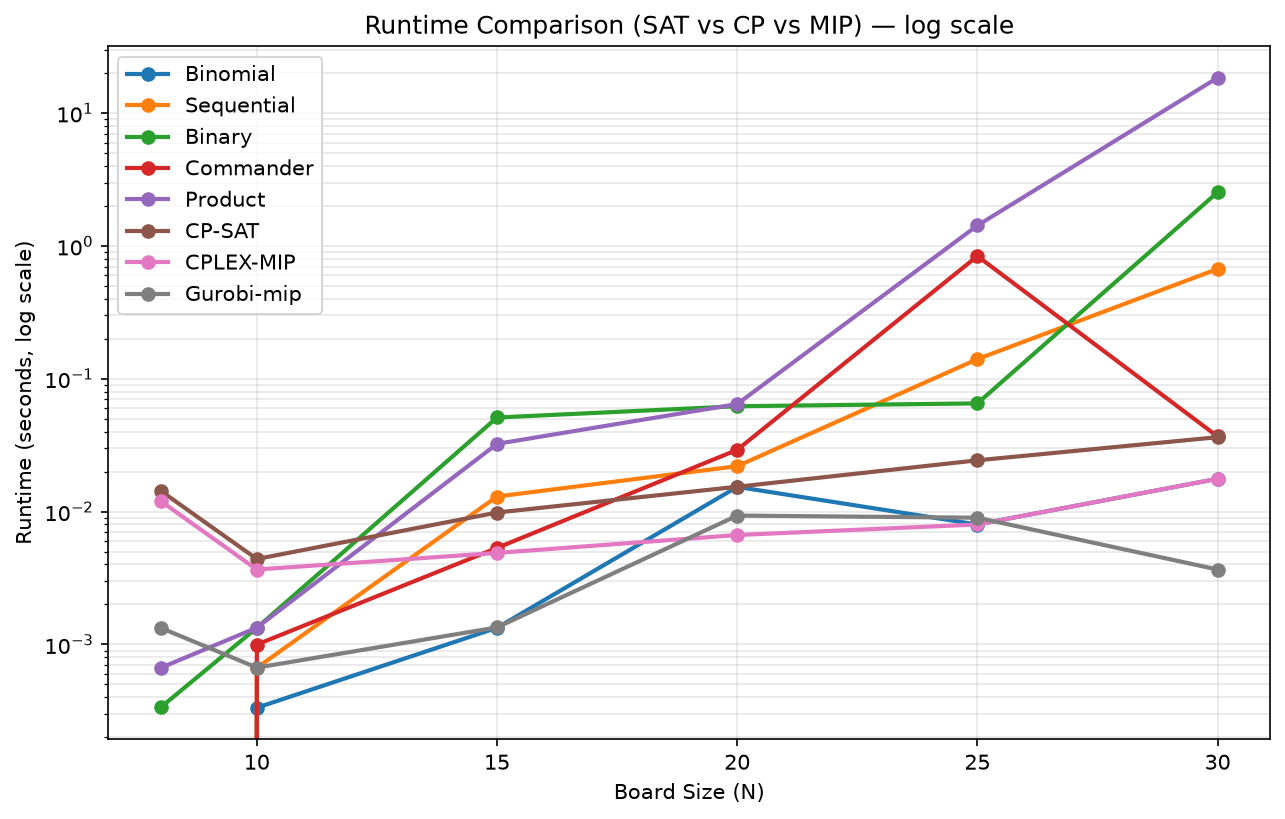
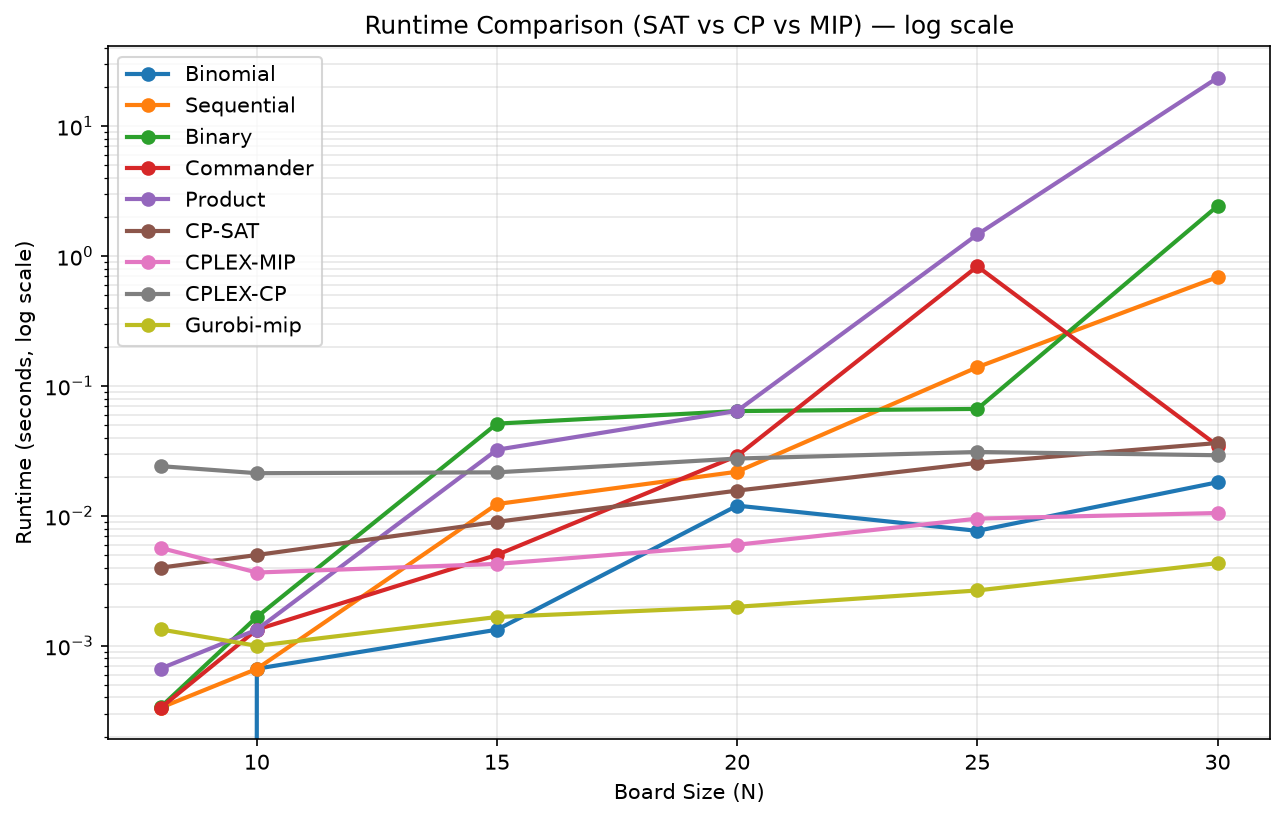
feat: complete all solvers including CPLEX-CP and Gurobi

diff --git a/report/main.tex b/report/main.tex
@@ -99,7 +99,7 @@ Kết quả thực nghiệm tại Hình \ref{fig:clauses} xác nhận đúng lý
     \label{fig:clauses}
 \end{figure}
 
-Bảng \ref{tab:runtime} trình bày chi tiết thời gian tại mốc $N=30$. Mặc dù mã nguồn dự án đã tích hợp thành công toàn bộ 4 công cụ (CPLEX CP, CPLEX MIP, Gurobi, CP-SAT) theo chuẩn yêu cầu, báo cáo này chọn trình bày số liệu của CP-SAT (đại diện hệ CP) và CPLEX-MIP (đại diện hệ ILP) để tối ưu hóa sự so sánh mà không bị ảnh hưởng bởi giếy phép thương mại (license) của Gurobi. Thời gian được tách làm hai phần: sinh mệnh đề Python (\emph{Gen}) và thời gian bộ giải thực sự (\emph{Solve}).
+Bảng \ref{tab:runtime} trình bày chi tiết thời gian tại mốc $N=30$.  Thời gian được tách làm hai phần: sinh mệnh đề Python (\emph{Gen}) và thời gian bộ giải thực sự (\emph{Solve}).
 
 \begin{table}[htbp]
     \centering
@@ -109,13 +109,16 @@ Bảng \ref{tab:runtime} trình bày chi tiết thời gian tại mốc $N=30$. 
         \toprule
         \textbf{Encoding / Solver} & \textbf{Mệnh đề} & \textbf{Biến} & \textbf{Gen (s)} & \textbf{Solve (s)} \\
         \midrule
-        Binomial  & 43.240 &   900 & 0,02120 & 0,00684 \\
-        Sequential & 10.122 & 4.322 & 0,00133 & 0,69580 \\
-        Binary    & 17.286 & 1.666 & 0,01001 & 2,47122 \\
-        Commander & 13.358 & 1.606 & 0,00301 & 0,03406 \\
-        Product   & 10.200 & 2.426 & 0,00215 & 26,83777 \\
-        CP-SAT    & --     &   --  & 0,00167 & 0,08832 \\
-        CPLEX-MIP & --     &   --  & 0,02179 & 0,02119 \\
+        Binomial  & 43.240 &   900 & 0,01145 & 0,00670 \\
+        Sequential & 10.122 & 4.322 & 0,00162 & 0,68842 \\
+        Binary    & 17.286 & 1.666 & 0,01007 & 2,42217 \\
+        Commander & 13.358 & 1.606 & 0,00216 & 0,03255 \\
+        Product   & 10.200 & 2.426 & 0,00836 & 23,63411 \\
+        \midrule
+        CP-SAT    & --     &   --  & 0,00063 & 0,03579 \\
+        CPLEX-CP  & --     &   --  & 0,00033 & 0,02899 \\
+        CPLEX-MIP & --     &   --  & 0,00531 & 0,00521 \\
+        Gurobi-MIP& --     &   --  & 0,00366 & 0,00066 \\
         \bottomrule
     \end{tabular}
 \end{table}

diff --git a/src/cplex_cp_solver.py b/src/cplex_cp_solver.py
@@ -19,24 +19,8 @@ def _find_cpoptimizer() -> str:
     return ""
 
 def _engine_available() -> bool:
-    try:
-        exe = _find_cpoptimizer()
-        if exe:
-            os.environ["PATH"] = os.path.dirname(exe) + os.pathsep + os.environ.get("PATH", "")
-            model = CpoModel()
-            ctx = model.get_cpo_context()
-            ctx.solver.local.execfile = exe
-            from docplex.cp.solver.solver_local import CpoSolverLocal
-            CpoSolverLocal(None, ctx)
-            return True
-
-        from docplex.cp.solver.solver_local import CpoSolverLocal
-        ctx = CpoModel().get_cpo_context()
-        CpoSolverLocal(None, ctx)
-        return True
-    except Exception:
-        return False
-
+    exe = _find_cpoptimizer()
+    return bool(exe)
 class CplexCPSolver:
     def __init__(self, n: int):
         self.n = n
@@ -51,15 +35,14 @@ class CplexCPSolver:
 
     def solve(self, time_limit_sec: float = 100.0):
         exe = _find_cpoptimizer()
-        if exe:
-            os.environ["PATH"] = os.path.dirname(exe) + os.pathsep + os.environ.get("PATH", "")
-            ctx = self.model.get_cpo_context()
-            ctx.solver.local.execfile = exe
-        elif not _engine_available():
+        if not exe:
             raise RuntimeError("MISSING_ENGINE")
 
+        cplex_bin = os.path.dirname(exe).replace("cpoptimizer", "cplex")
+        os.environ["PATH"] = os.path.dirname(exe) + os.pathsep + cplex_bin + os.pathsep + os.environ.get("PATH", "")
+
         start_time = time.time()
-        solution = self.model.solve(TimeLimit=time_limit_sec, LogVerbosity="Quiet")
+        solution = self.model.solve(TimeLimit=time_limit_sec, LogVerbosity="Quiet", execfile=exe)
         end_time = time.time()
 
         runtime = end_time - start_time
